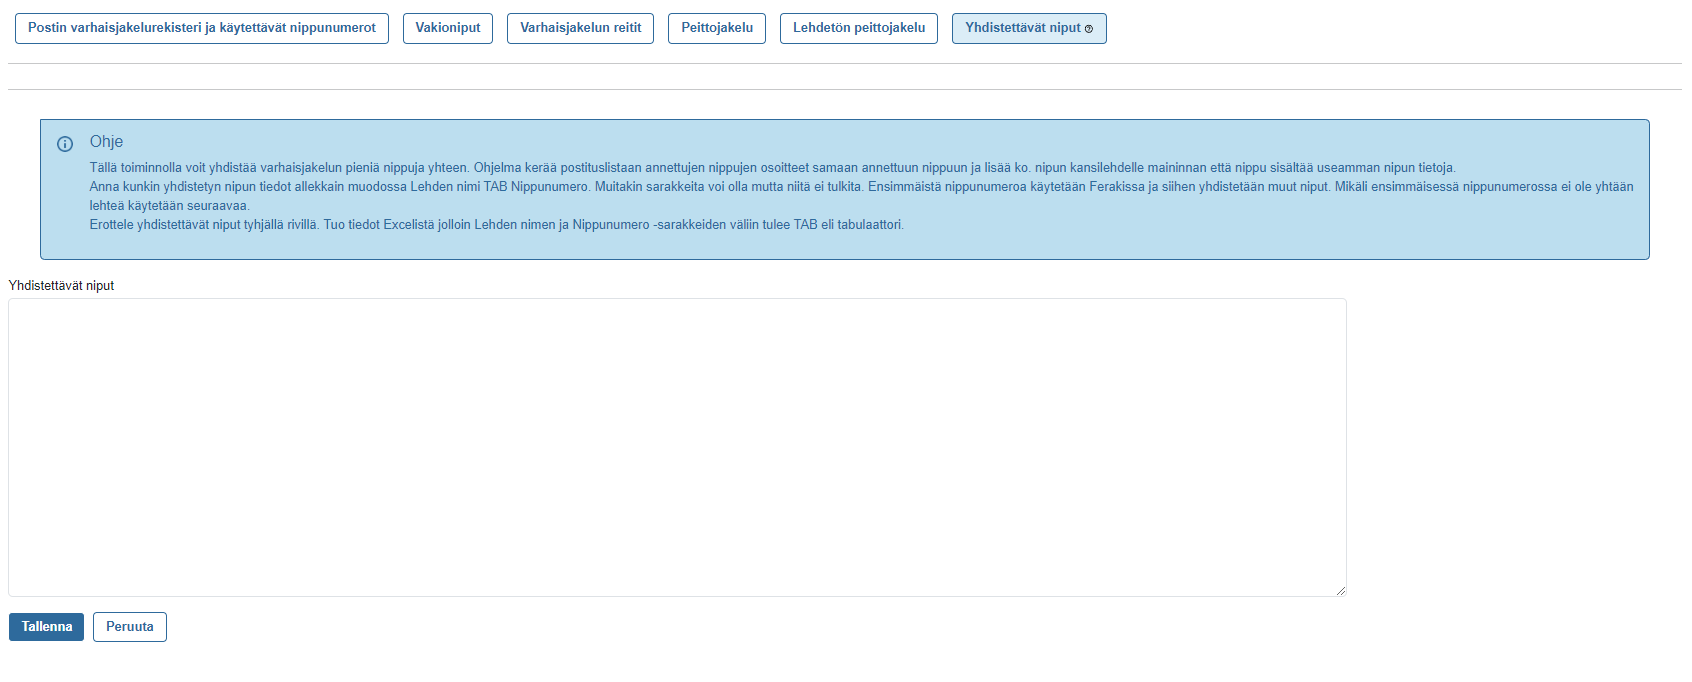
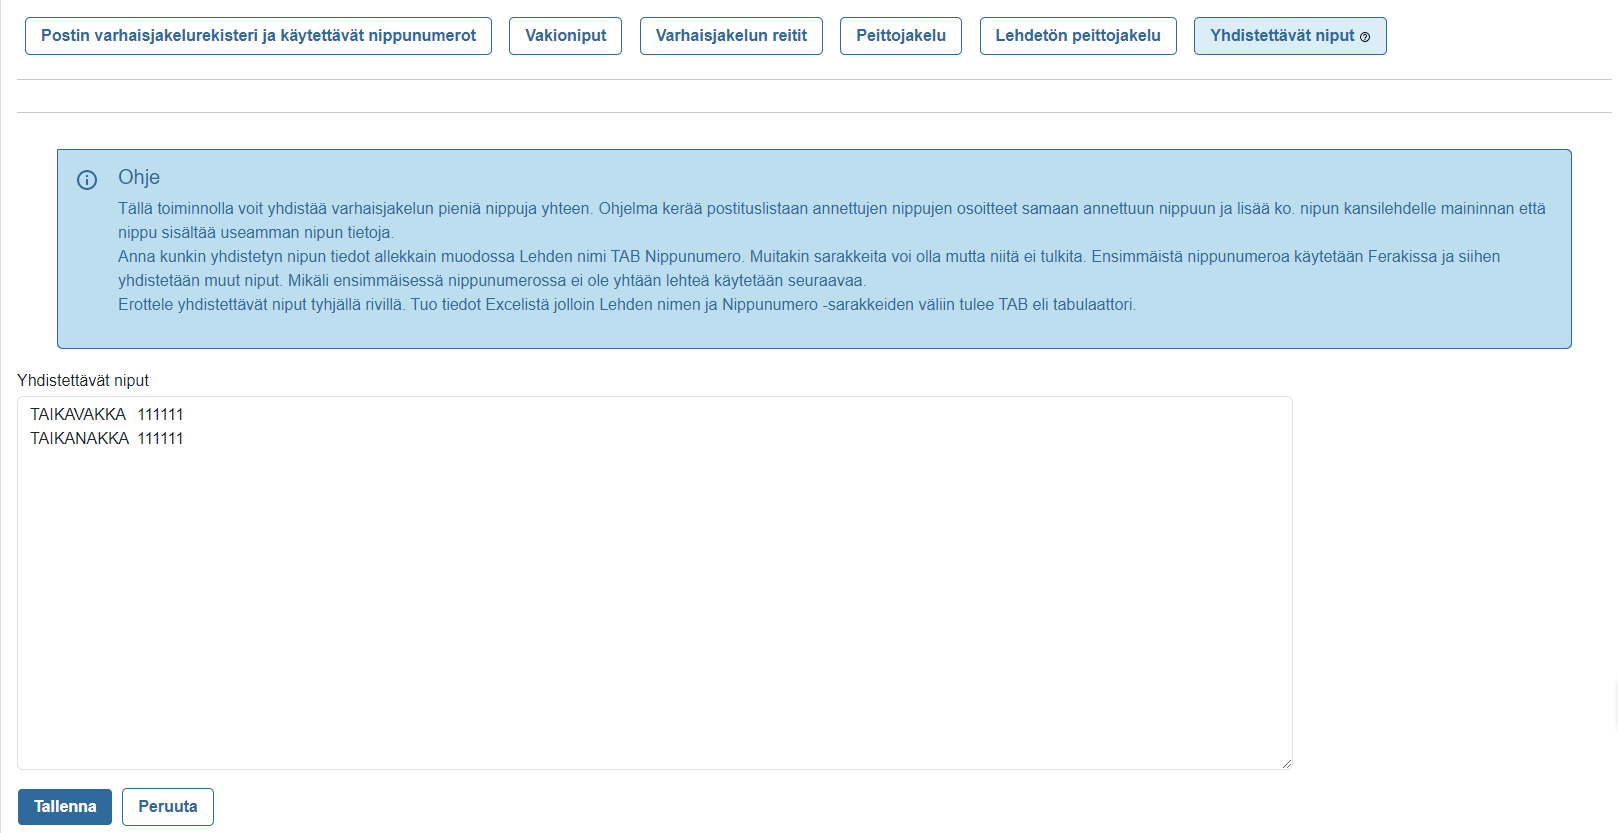
varhaisjakelu

diff --git a/docs/ohjeet/asetukset.md b/docs/ohjeet/asetukset.md
@@ -138,6 +138,10 @@ Kaikissa Kestotilaustyyppisissä tuotteissa pituuden on oltava joku muu kuin 0, 
 
 ![Tilaustuotteet - Tuotteen lisääminen](/img/ohjeet/tilauspaketti.png)
 
+### Tilauspakettien lisääminen
+
+![Tilaustuotteet - Tuotteen lisääminen](/img/ohjeet/tilauspaketin-lisaaminen.png)
+
 ## Erillistuotteet
 
 Erillistuotteita ovat tuotteet, jotka EIVÄT sovi **tilaus- tai myyntituotteisiin**. Esimerkkejä erillistuotteista ovat esimerkiksi Laskutuslisä, Paperilaskutuslisä, jne. Erillistuotteet-välilehdellä voit muokata ja lisätä erillistuotteita.
@@ -673,35 +677,66 @@ Varhaisjakeluun liittyvät osoitteistot ja nippujen tiedot määritellään aset
 
 ![Varhaisjakelu](/img/ohjeet/varhaisjakelu2.png)
 
+Tähän välilehteen syötetään Postilta saatu varhaisjakelun **katurekisteri**. Kadut ja niiden katunumerot on kohdistettu piireihin. Katurekisteri ladataan leikepöydän kautta CSV-muodossa. 
+
+Osoitteet **syötetään** riveittäin muodossa: Paikannimi;Parittomat;Parilliset;Postinumero;Postitoimipaikka;Reittitunnus (nippunumero). 
+
+**Postin varhaisjakeluosoitteiston käytettävät piirinumerot (nippunumerot)** -kenttään syötetään piirinumerot, joilla varhaisjakelua halutaan käytettävän. Piirinumerot **syötetään** omille riveilleen muodossa: Nippunumero;Lehti.
+
 ### Vakioniput
 
 ![Varhaisjakelu](/img/ohjeet/varhaisjakelu3.png)
 
-Varhaisjakelu –näkymässä ylläpidetään myös esim. Vakioniput–rekisteriä, jossa listataan
+Varhaisjakelu –näkymässä ylläpidetään myös **Vakioniput**–rekisteriä, jossa listataan
 - mm. lehden toimistoon vietävän nipun koko
 - Painon varalehtien nipun koko
 - Muut vakioniput ja niiden sisältämät lehtimäärät
 
-Yksittäiset vakioniput listataan alle aukeavaan tekstikenttään
+Yksittäiset vakioniput **listataan** tekstikenttään 
 - jokainen omalle rivilleen kentät puolipisteillä eroteltuina
+- muodosssa Lehti;Reitti;Jättöpaikka1;Jättöpaikka2;Nippu;Kuljetuksenohjaus1;Kuljetuksenohjaus2;Vastaanottaja;Osoite;Postinumero+Postitoimipaikka;Jakelu(VARHAIS/PÄIVÄ);Kpl
 - sarakkeita on 12kpl ja niiden järjestys sekä maksimi pituus näkyy ohjeen mallirivistä
 
-Muutokset (esim. lisälehtiä nippuun) päivitetään ko. vakionipun riville ja tallennetaan
+Muutokset (esim. lisälehtiä nippuun) päivitetään kyseisen vakionipun riville ja tallennetaan
 - Mikäli muutos on tilapäinen, tulee se palauttaa päivittämällä muutostieto takaisin (normimäärään) poikkeavan postituksen jälkeen
 
 ### Varhaisjakelun reitit
 
 ![Varhaisjakelu](/img/ohjeet/varhaisjakelu4.png)
 
+Tälle välilehdelle syötetään varhaisjakelun reitit. 
+
+Reitit syötetään muodossa: Kuljetus nro (Reitti);Jättöpaikka;Piiri nro (Nippu);Piirinimi;Kuljetusnimi;Jättöpaikan osoite
+
 ### Peittojakelu
 
 ![Varhaisjakelu](/img/ohjeet/varhaisjakelu5.png)
+
+Kun tehdään lehden **peittojakelua** (Lehti + lisälehti), syötetään tälle välilehdelle peittojakelun reitit. Postituslistan luontivaiheessa ohjelma hakee kyseiseen lehteen ja ilmestymiseen lisättävät lisälehdet ja lisää ne postituslistalle.
+
+Peittojakelun reiti syötetään jokainen omalle rivilleen eri kentät puolipisteillä eroteltuina.
+
+Sarakkeiden järjestys: Lehti;Piiri nro (Nippu);Lehden ilmestymispäivä;Kpl
 
 ### Lehdetön peittojakelu
 
 ![Varhaisjakelu](/img/ohjeet/varhaisjakelu6.png)
 
+Kun tehdään **vain lisälehden peittojakelu**, syötetään tälle välilehdelle peittojakelun reitti. Peittojakelun voi lisätä postitukseen painamalla **Lisää lehdetön peittojakelu postitukseen** -painiketta.
+
+Peittojakelun reiti syötetään jokainen omalle rivilleen eri kentät puolipisteillä eroteltuina.
+
+Sarakkeiden järjestys: Lehti;Reitti;Jättöpaikka1;JÄTTÖPAIKKA2;Nippu;Kuljetuksenohjaus1;Kuljetuksenohjaus2;VASTAANOTTAJA;Osoite;POSTINUMERO+POSTITOIMIPAIKKA;Lehden ilmestymispäivä;Kpl
+
 ### Yhdistettävät niput
 
 ![Varhaisjakelu](/img/ohjeet/varhaisjakelu7.png)
+
+**Yhdistettävät niput** -välilehdellä voidaan yhdistää varhaisjakelun pieniä nippuja yhteen. 
+
+Ohjelma kerää postituslistaan annettujen nippujen osoitteet samaan annettuun nippuun ja lisää kyseisen nipun kansilehdelle maininnan siitä että nippu sisältää useamman nipun tietoja.
+
+**Syötä** kunkin yhdistetyn nipun tiedot allekkain muodossa Lehden nimi TAB Nippunumero. Muitakin sarakkeita voi olla mutta niitä ei tulkita. Ensimmäistä nippunumeroa käytetään Ferakissa ja siihen yhdistetään muut niput. Mikäli ensimmäisessä nippunumerossa **ei ole yhtään lehteä käytetään seuraavaa**.
+
+Erottele yhdistettävät niput tyhjällä rivillä. Tuo tiedot Excelistä jolloin **Lehden nimen ja Nippunumero** -sarakkeiden väliin tulee TAB eli tabulaattori.
 
